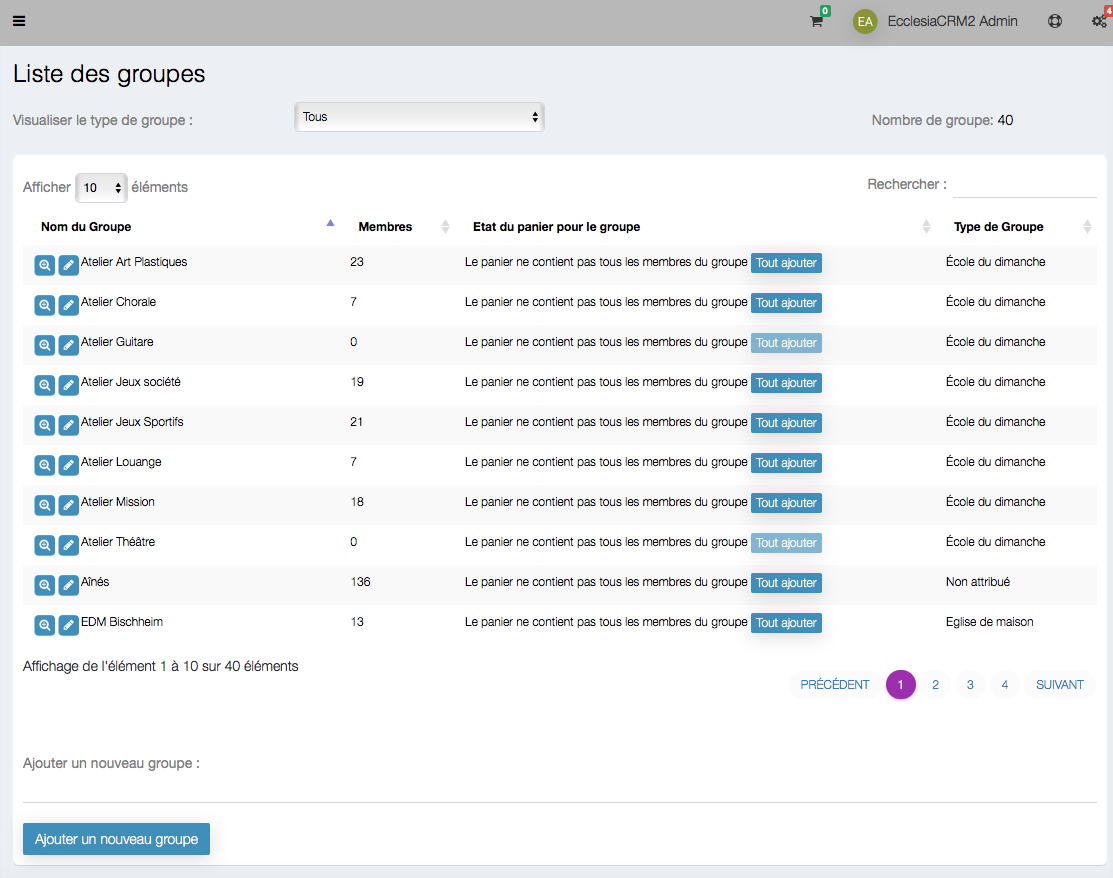
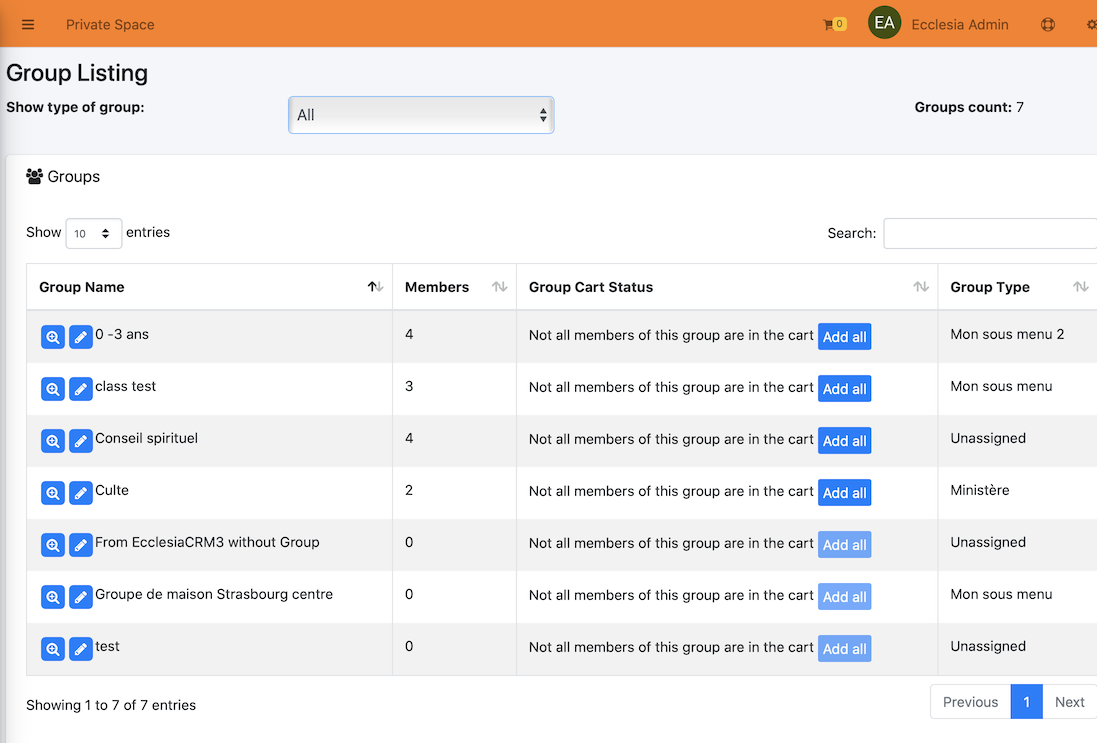
group translation

diff --git a/Documentation/doc-en/docs/user-guide/doc-admin/group/doc-groups.md b/Documentation/doc-en/docs/user-guide/doc-admin/group/doc-groups.md
@@ -1,5 +1,4 @@
-# <center><big>Group & Ecclesia**CRM** </big></center>
-
+# <center><big>Groups</big></center>
 
 ## Overview
 
@@ -10,13 +9,15 @@ The groups in **CRM** have a preponderant place in :
 - Managing the Sundayschool groups
 - Classifying the menues, by "types" in the left sidebar; which is as possible with the classic groups than the sundayschool groups.
 
-Via the "basket", the users will be able to :
+Via the "Cart", the users will be able to :
 
 - Do CSV extractions
 - Print
 - access to a directory
 - access to labels
 - access to badges
+- Making appointment
+- get an address book of the group persons
 
 
 ##Have access to the groups
@@ -25,7 +26,7 @@ To have to all the groups, one has to open the sude bare, as following :
 
 ![Screenshot](../../../img/group/groupsidebar.png)
 
-One selects "list all the groups":
+One selects "List Groups":
 
 ![Screenshot](../../../img/group/groupview.png)
 
@@ -42,19 +43,19 @@ There, one only will have the sundayschool groups
 
 ##Add a new group
 
-On va au bas de ces groupes One has to go at the bottom of the group listing, as following :
+One has to go at the bottom of the group listing, as following :
 
 ![Screenshot](../../../img/group/groupadd.png)
 
 One adds:
 
 - The name of the group
-- Then click on "add"
+- Then click on "Add New Group"
 
 
-##Put one or more members in the "basket"
+##Put one or more members in the "cart"
 
-The user has to have a basket role to use this tool.
+The user has to have a cart role to use this tool.
 
 One goes to the section "List all the groups"
 
@@ -63,9 +64,9 @@ One goes to the section "List all the groups"
 
 **Note**
 
-- Two groups are add to basket
-- The basket icon has the some of the users accounts
+- Two groups are add to cart
+- The cart icon has the some of the users accounts
 
-To do that, consult the section "basket"
+To do that, consult the section "Cart"
 
 
